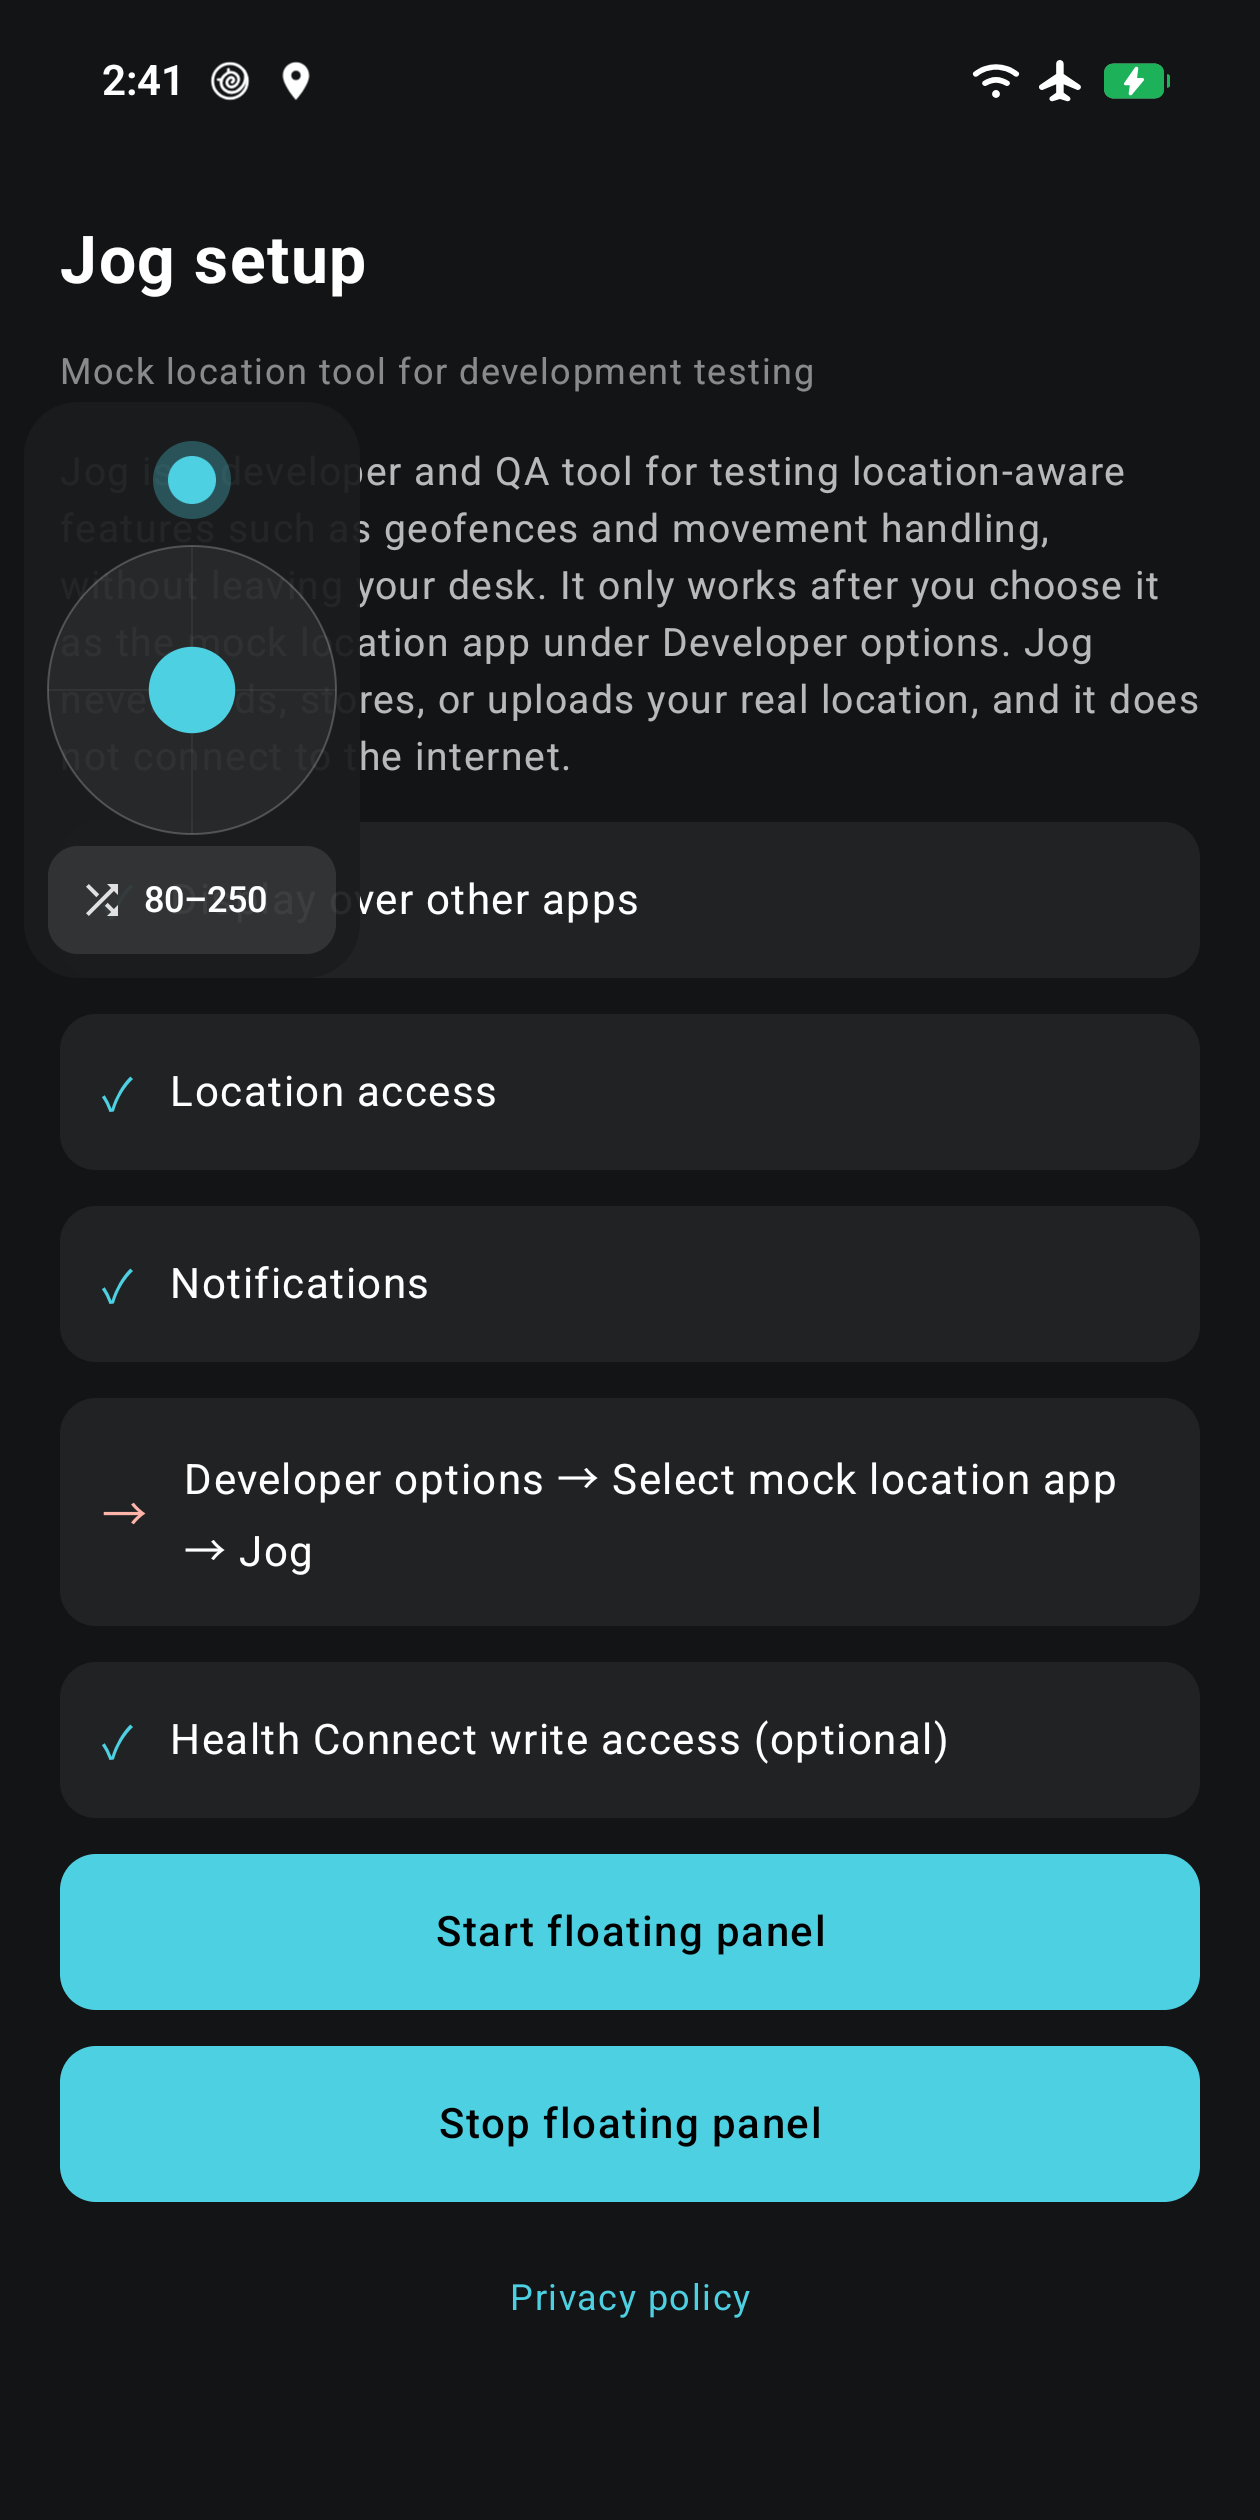
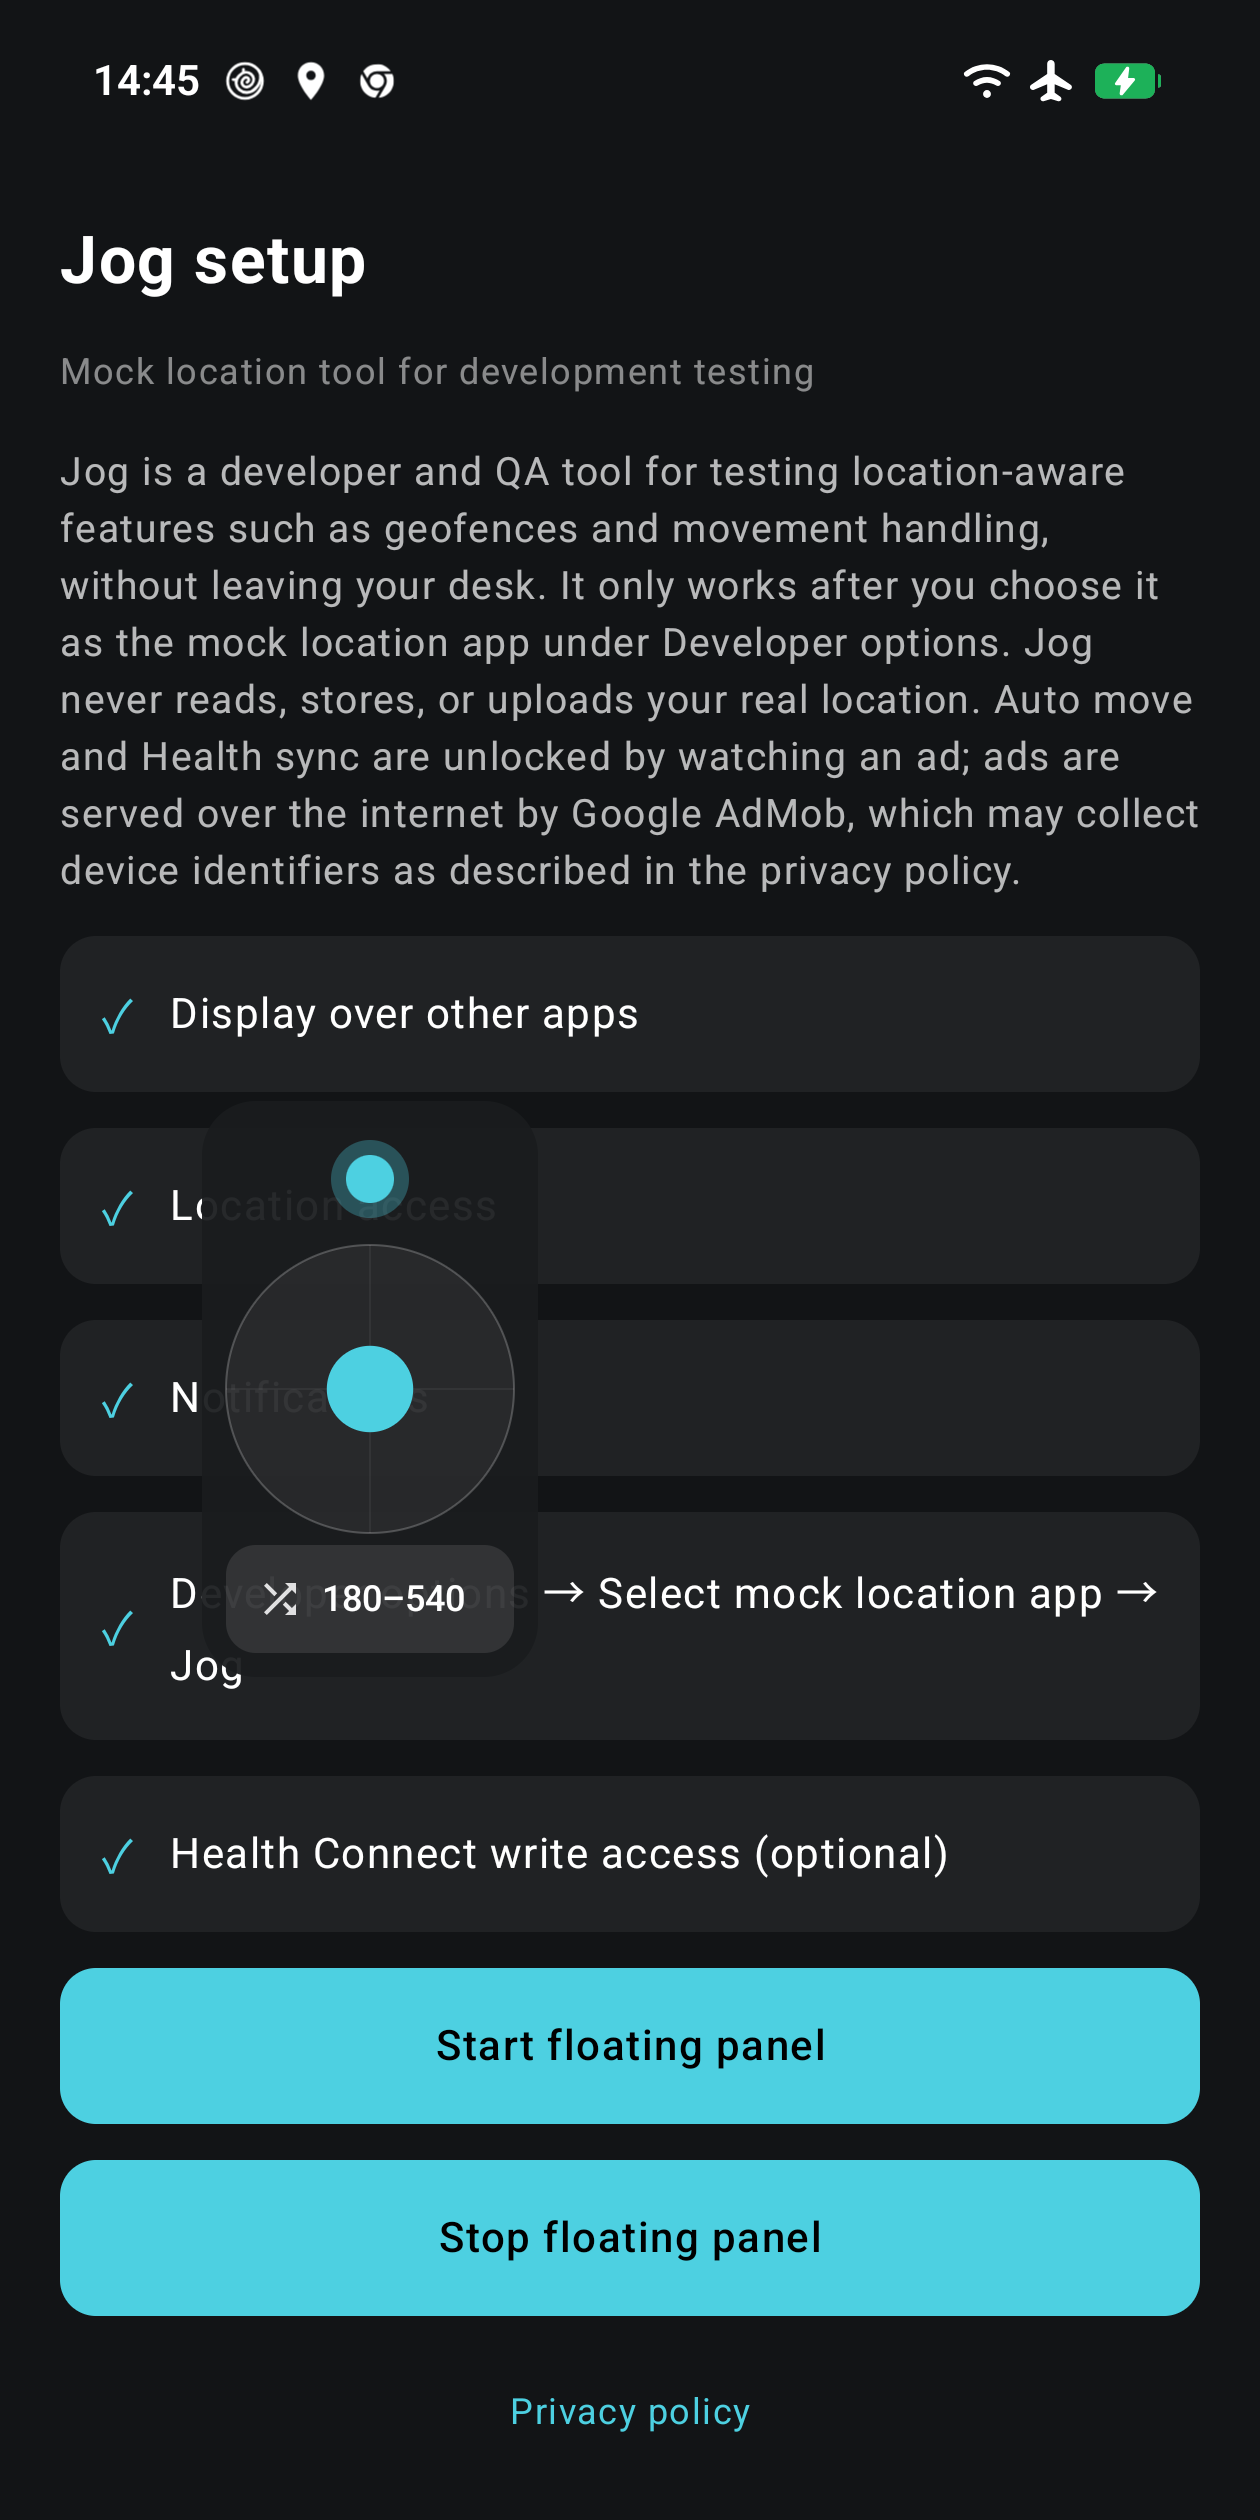
[JogApp] Refresh store screenshots for 3.3.0 and add the Saved tab
[Description]
The old screenshots showed the text tabs and an arrow on the mock
location row, both changed in 3.3.0. Each locale (en, zh-TW) now has
five shots: setup screen with every row checked, Location tab after
jumping to a favorite, Move tab with auto move and Health sync on,
collapsed panel, and the new Saved tab. 02_auto_move and 03_health_sync
are replaced by 02_location and 03_auto_move_health.

The favorites list in the shots uses landmark names written straight
into jog_favorites.xml, because reverse-geocoded street addresses are
too long to read in the panel. PLAY_RELEASE records this along with the
existing app_name trick.

[Test]
- All ten images are 1260x2520 RGB with no alpha, cropped from device
  captures of the debug build, and show only Jog and the setup screen.
- Checked each shot visually in both locales.

Not covered: not yet uploaded or previewed in Play Console.

diff --git a/PLAY_RELEASE.md b/PLAY_RELEASE.md
@@ -181,7 +181,7 @@ targeting Android 14+ 起，Play Console 要求申報每一個前景服務類型
 - [x] 內容分級問卷：All Other App Types，全部 No
 - [x] 目標客群：只勾 18 and over
 - [x] 512×512 圖示與 1024×500 主題圖片：`python tools/render_store_assets.py` 產到 `store/`
-- [x] 手機截圖各 4 張在 `store/screenshots/en/` 與 `store/screenshots/zh-TW/`，已裁成 2:1、去 alpha，只有 Jog 自己的畫面。**截圖只能出現該版本真的有的功能**。2.0.0 版（2026-10-07）：設定頁、自動移動、Health 同步、收合面板；用 debug build 拍，拍攝時暫時把 debug 的 app_name 改成「Jog」（不 commit），面板標題才不會寫 Jog Debug
+- [x] 手機截圖各 5 張在 `store/screenshots/en/` 與 `store/screenshots/zh-TW/`，已裁成 2:1、去 alpha，只有 Jog 自己的畫面。**截圖只能出現該版本真的有的功能**。3.3.0 版（2026-11-06）：設定頁、位置分頁、自動移動＋Health 同步、收合面板、最愛分頁；用 debug build 拍，拍攝時暫時把 debug 的 app_name 改成「Jog」（不 commit），面板標題才不會寫 Jog Debug。最愛清單是用 `run-as` 直接寫入 `jog_favorites.xml` 的地標名稱（反查出來的門牌地址太長），拍完還原手機原本的資料
 - [x] App 圖示是 adaptive icon（`mipmap-anydpi-v26/ic_launcher.xml`）：深色底 + 青色搖桿環與四向箭頭 + 白色 pin（2.0.0 起），另有 `ic_launcher_monochrome.xml` 給主題圖示；商店的 512 圖示與主題圖片由 `tools/render_store_assets.py` 畫同一個圖形。`ic_pin.xml` 只剩通知在用
 - [x] 廣告聲明：無廣告；Advertising ID：不使用
 - [x] 資料刪除網址：不適用
